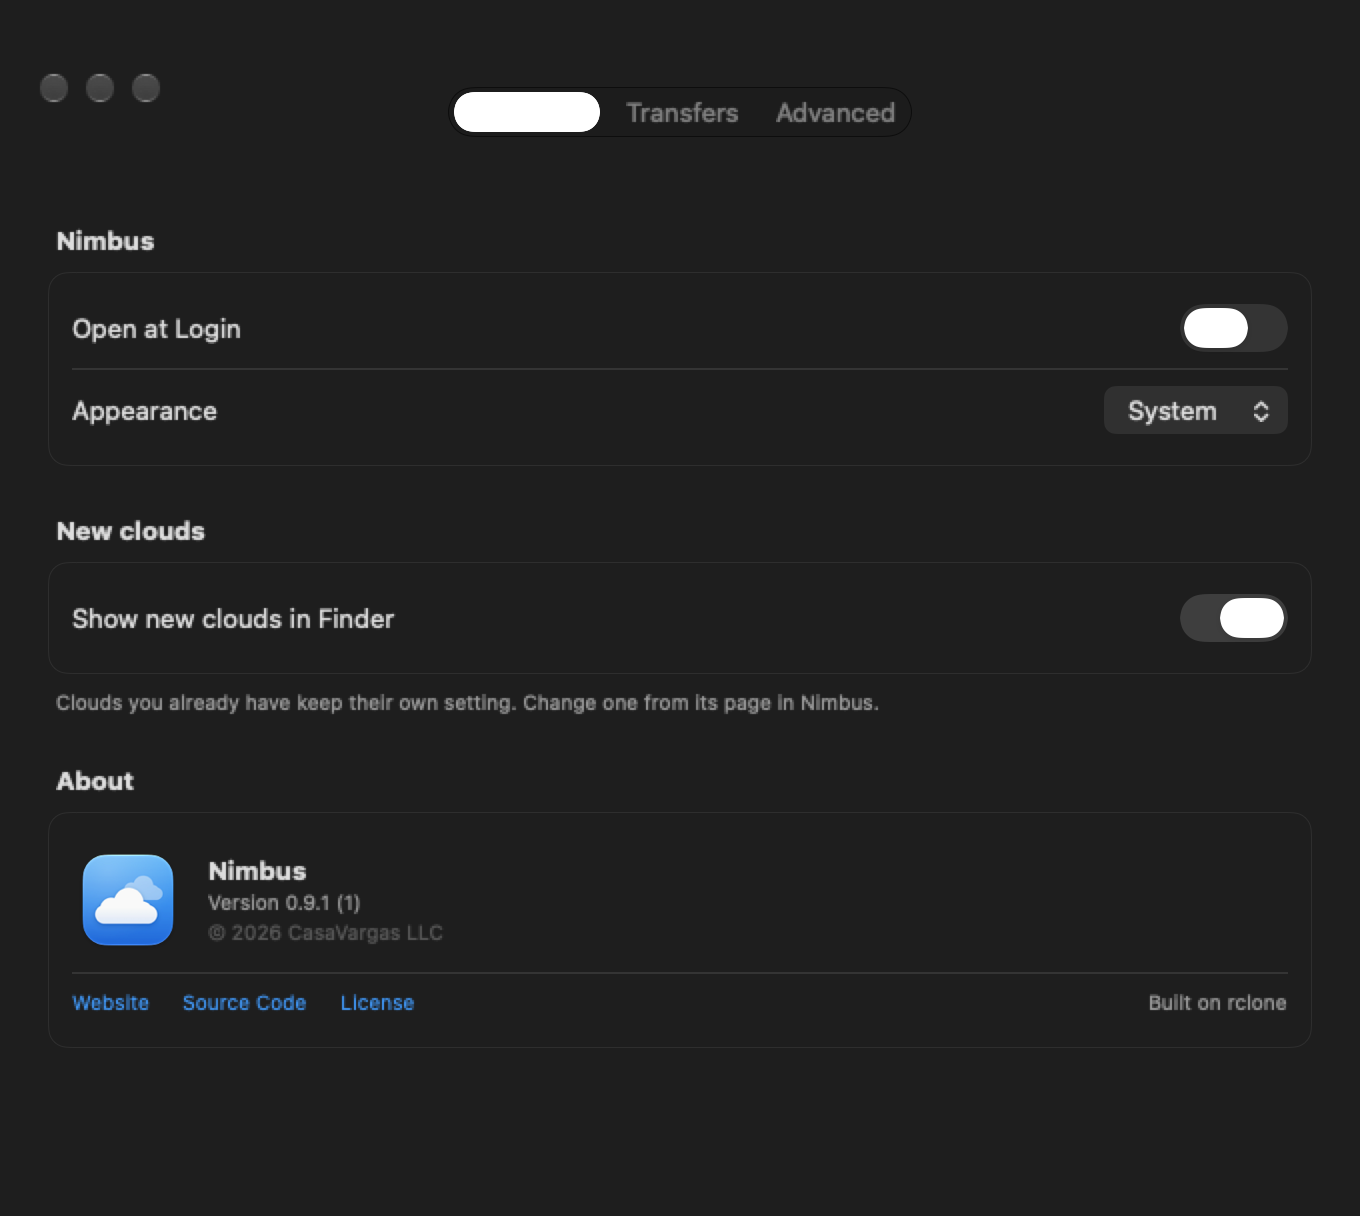
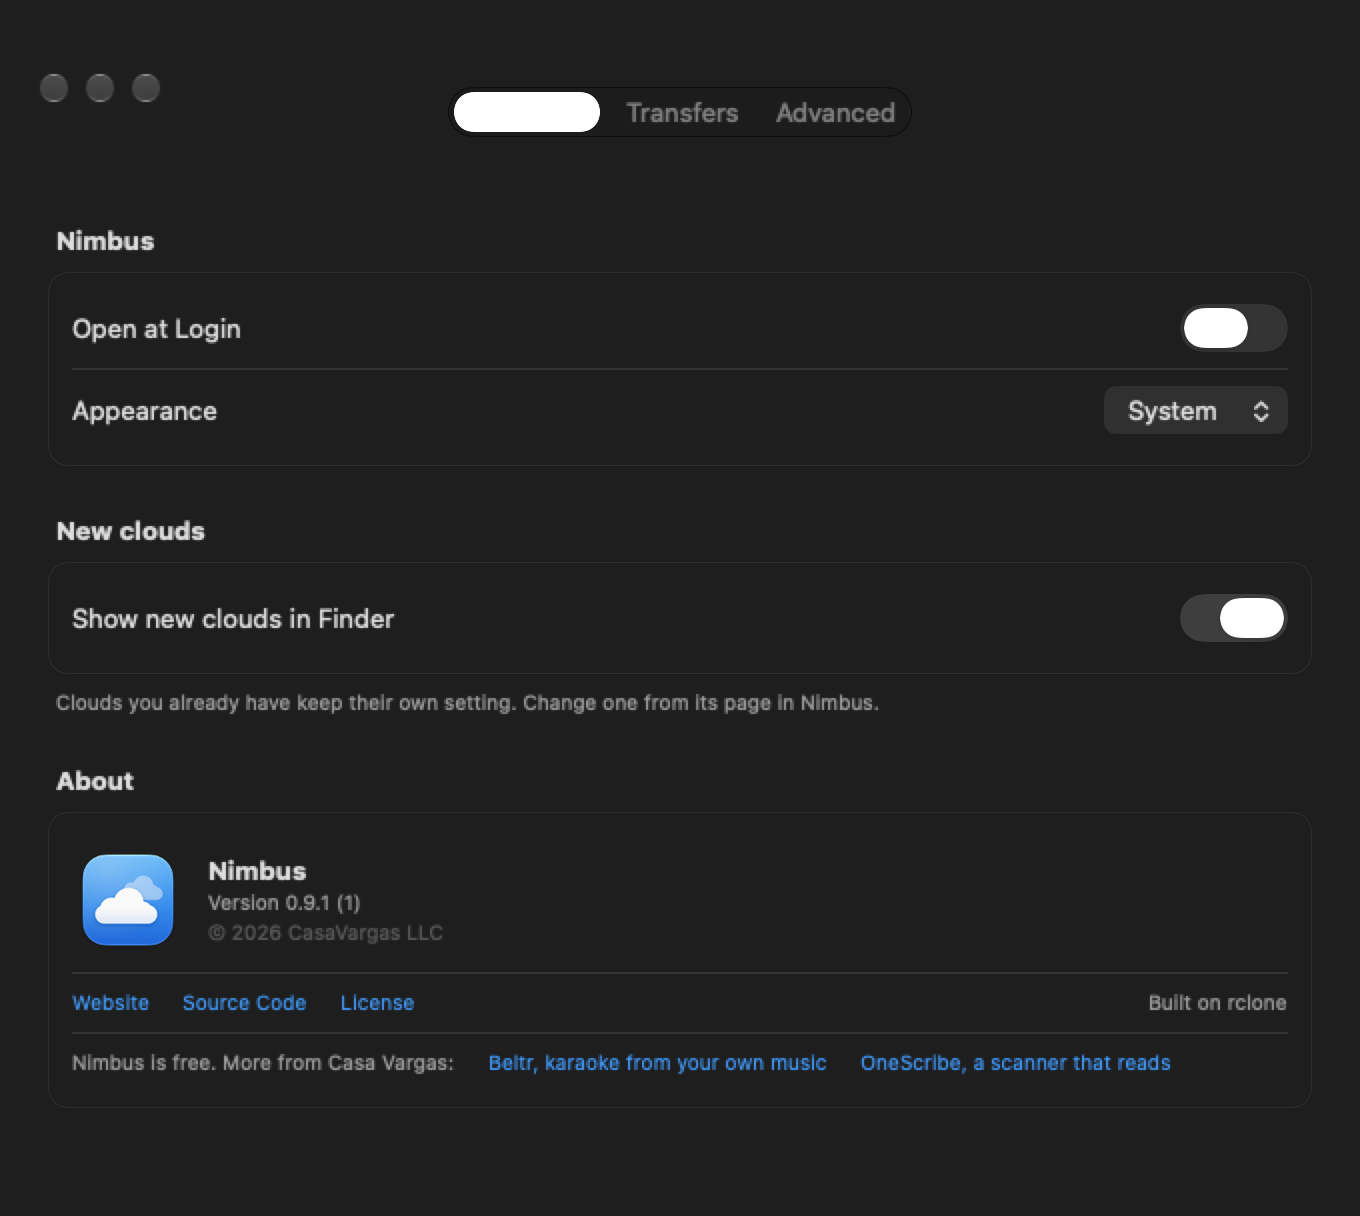
docs(screenshots): Settings with the About row

diff --git a/site/index.html b/site/index.html
@@ -290,7 +290,7 @@
     <div class="split reveal">
       <figure class="shot">
         <div class="window window--dark">
-          <img src="assets/settings-general-dark.png" width="1360" height="1216" alt="The Nimbus Settings window in dark mode, laid out like System Settings." loading="lazy">
+          <img src="assets/settings-general-dark.png" width="1360" height="1216" alt="The Nimbus Settings window in dark mode, laid out like System Settings, with the About section linking to Beltr and OneScribe." loading="lazy">
         </div>
       </figure>
       <div>
